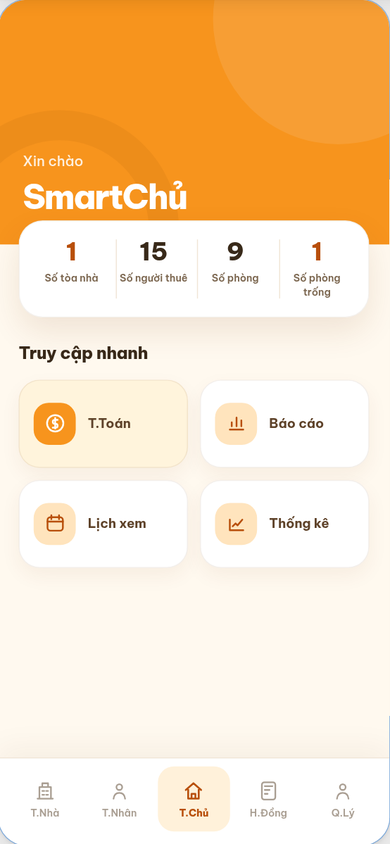
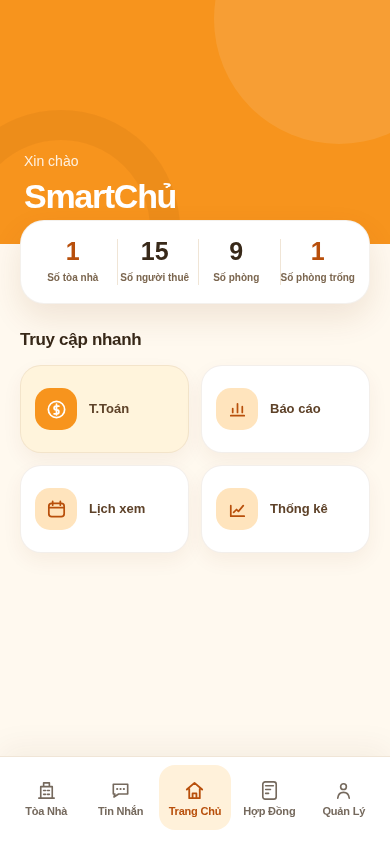
docs: finalize SmartChu footer labels

diff --git a/docs/SRS/SmartChu/use-cases/UC-04-xem-thong-tin-ca-nhan.md b/docs/SRS/SmartChu/use-cases/UC-04-xem-thong-tin-ca-nhan.md
@@ -102,13 +102,13 @@ Không có luồng ngoại lệ được xác định trong phạm vi Use Case n
 | 1 | Lời chào | Nội dung | `Xin chào` và tên sản phẩm `SmartChủ` | Không | Không | Không áp dụng | Khi có phiên hợp lệ. |
 | 2 | Tổng quan vận hành | Nhóm chỉ số | Số tòa nhà, số người thuê, số phòng và số phòng trống | Không | Không | Giá trị số từ dữ liệu hệ thống | Khi có dữ liệu tương ứng. |
 | 3 | Truy cập nhanh | Nhóm action | `T.Toán`, `Báo cáo`, `Lịch xem`, `Thống kê` | Không | Không | Destination thuộc UC tương ứng, không xác định trong UC-04 | Khi action được cung cấp cho tài khoản. |
-| 4 | Điều hướng chính | Thanh điều hướng | `T.Nhà`, `T.Nhân`, `T.Chủ`, `H.Đồng`, `Q.Lý` | Không | Không | `T.Chủ` là mục đang chọn tại Trang chủ | Khi có phiên hợp lệ. |
+| 4 | Điều hướng chính | Thanh điều hướng | `Tòa Nhà`, `Tin Nhắn`, `Trang Chủ`, `Hợp Đồng`, `Quản Lý` | Không | Không | `Trang Chủ` là mục đang chọn tại Trang chủ | Khi có phiên hợp lệ. |
 
 #### Thao tác
 
 | Thao tác | Điều kiện khả dụng | Xác nhận | Hệ thống xử lý | Kết quả/Điều hướng | Phản hồi lỗi |
 | --- | --- | --- | --- | --- | --- |
-| Chọn `Q.Lý` | Phiên hợp lệ | Không | Mở khu vực Quản lý. | Hiển thị màn hình Quản lý tại tab `Cá nhân`. | Chuyển về Đăng nhập nếu phiên không còn hợp lệ. |
+| Chọn `Quản Lý` | Phiên hợp lệ | Không | Mở khu vực Quản lý. | Hiển thị màn hình Quản lý tại tab `Cá nhân`. | Chuyển về Đăng nhập nếu phiên không còn hợp lệ. |
 
 #### Trạng thái màn hình
 
@@ -128,7 +128,7 @@ Không có luồng ngoại lệ được xác định trong phạm vi Use Case n
 | Mã màn hình | Quản lý — Cá nhân |
 | Tên màn hình | Quản lý thông tin cá nhân |
 | Mục đích | Hiển thị thông tin cá nhân và các lối điều hướng quản lý tài khoản. |
-| Điểm vào | Từ mục `Q.Lý` trên điều hướng chính. |
+| Điểm vào | Từ mục `Quản Lý` trên điều hướng chính. |
 | Điểm ra/Điều hướng | Chỉnh sửa tới UC-05; `Đổi mật khẩu` tới UC-08; `Đăng xuất` tiếp tục UC-02; `Kinh doanh` tới bề mặt thuộc UC riêng. |
 | Vai trò/Quyền | Chủ trọ đã đăng nhập; chỉ xem hồ sơ của chính mình. |
 
@@ -145,7 +145,7 @@ Không có luồng ngoại lệ được xác định trong phạm vi Use Case n
 | 7 | Email | Dữ liệu | Email đã xác minh và che một phần | Có | Không | Read-only trong phase đầu | Luôn hiển thị. |
 | 8 | Đổi mật khẩu | Action | `Đổi mật khẩu` | Không | Không | Không áp dụng | Khi có phiên hợp lệ. |
 | 9 | Đăng xuất | Action | `Đăng xuất` | Không | Không | Chỉ xử lý một lần cho mỗi thao tác | Khi có phiên hợp lệ. |
-| 10 | Điều hướng chính | Thanh điều hướng | `T.Nhà`, `T.Nhân`, `T.Chủ`, `H.Đồng`, `Q.Lý` | Không | Không | `Q.Lý` là mục đang chọn | Khi có phiên hợp lệ. |
+| 10 | Điều hướng chính | Thanh điều hướng | `Tòa Nhà`, `Tin Nhắn`, `Trang Chủ`, `Hợp Đồng`, `Quản Lý` | Không | Không | `Quản Lý` là mục đang chọn | Khi có phiên hợp lệ. |
 
 #### Thao tác
 
@@ -155,7 +155,7 @@ Không có luồng ngoại lệ được xác định trong phạm vi Use Case n
 | Chọn tab `Kinh doanh` | Phiên hợp lệ | Không | Mở bề mặt thông tin kinh doanh thuộc UC riêng. | Kết thúc UC-04 tại bề mặt future-feature của phase đầu. | Giữ tab `Cá nhân` nếu không thể điều hướng. |
 | Chọn `Đổi mật khẩu` | Phiên hợp lệ | Không | Khởi tạo UC-08. | Mở màn hình Đổi mật khẩu. | Giữ màn hình nếu không thể điều hướng. |
 | Chọn `Đăng xuất` | Phiên hợp lệ; không đang xử lý đăng xuất | Không | Tiếp tục luồng đăng xuất của UC-02. | Về Đăng nhập sau khi xóa phiên cục bộ. | UC-02 xử lý lỗi thu hồi phiên. |
-| Chọn `T.Chủ` | Phiên hợp lệ | Không | Mở Trang chủ. | Hiển thị Trang chủ. | Chuyển về Đăng nhập nếu phiên không hợp lệ. |
+| Chọn `Trang Chủ` | Phiên hợp lệ | Không | Mở Trang chủ. | Hiển thị Trang chủ. | Chuyển về Đăng nhập nếu phiên không hợp lệ. |
 
 #### Trạng thái màn hình
 

diff --git a/docs/SRS/SmartChu/use-cases/UC-02-sign-in.md b/docs/SRS/SmartChu/use-cases/UC-02-sign-in.md
@@ -192,13 +192,13 @@
 | 1 | Lời chào | Nội dung | `Xin chào` và tên sản phẩm `SmartChủ` | Không | Không | Không áp dụng | Khi có phiên hợp lệ. |
 | 2 | Tổng quan vận hành | Nhóm chỉ số | Số tòa nhà, số người thuê, số phòng và số phòng trống | Không | Không | Giá trị số từ dữ liệu hệ thống | Khi có dữ liệu tương ứng. |
 | 3 | Truy cập nhanh | Nhóm action | `T.Toán`, `Báo cáo`, `Lịch xem`, `Thống kê` | Không | Không | Destination thuộc UC tương ứng, không xác định trong UC-02 | Khi action được cung cấp cho tài khoản. |
-| 4 | Điều hướng chính | Thanh điều hướng | `T.Nhà`, `T.Nhân`, `T.Chủ`, `H.Đồng`, `Q.Lý` | Không | Không | `T.Chủ` là mục đang chọn tại Trang chủ | Khi có phiên hợp lệ. |
+| 4 | Điều hướng chính | Thanh điều hướng | `Tòa Nhà`, `Tin Nhắn`, `Trang Chủ`, `Hợp Đồng`, `Quản Lý` | Không | Không | `Trang Chủ` là mục đang chọn tại Trang chủ | Khi có phiên hợp lệ. |
 
 #### Thao tác
 
 | Thao tác | Điều kiện khả dụng | Xác nhận | Hệ thống xử lý | Kết quả/Điều hướng | Phản hồi lỗi |
 | --- | --- | --- | --- | --- | --- |
-| Chọn `Q.Lý` | Phiên hợp lệ | Không | Mở khu vực Quản lý. | Hiển thị màn hình Quản lý tại tab `Cá nhân`. | Yêu cầu đăng nhập lại nếu phiên hết hạn. |
+| Chọn `Quản Lý` | Phiên hợp lệ | Không | Mở khu vực Quản lý. | Hiển thị màn hình Quản lý tại tab `Cá nhân`. | Yêu cầu đăng nhập lại nếu phiên hết hạn. |
 
 #### Trạng thái màn hình
 
@@ -218,7 +218,7 @@
 | Mã màn hình | Quản lý |
 | Tên màn hình | Quản lý |
 | Mục đích | Cung cấp khu vực quản lý tài khoản, trong đó chủ trọ có thể kết thúc phiên hiện tại. |
-| Điểm vào | Từ Trang chủ qua mục `Q.Lý`. |
+| Điểm vào | Từ Trang chủ qua mục `Quản Lý`. |
 | Điểm ra/Điều hướng | Hoàn tất đăng xuất về màn hình Đăng nhập; các action hồ sơ khác thuộc UC tương ứng. |
 | Vai trò/Quyền | Chủ trọ đã đăng nhập. |
 
@@ -231,6 +231,7 @@
 | 3 | Thông tin tài khoản | Nhóm dữ liệu | Avatar/fallback, tên hiển thị, phone contact nếu có và email read-only | Không | Không | Theo UC-04 | Khi tab `Cá nhân` được chọn. |
 | 4 | Đổi mật khẩu | Action | `Đổi mật khẩu` | Không | Không | Thuộc UC-08 | Khi có phiên hợp lệ. |
 | 5 | Đăng xuất | Nút/Action | `Đăng xuất` | Không | Không | Chỉ xử lý một lần khi đang đăng xuất | Khi có phiên hợp lệ. |
+| 6 | Điều hướng chính | Thanh điều hướng | `Tòa Nhà`, `Tin Nhắn`, `Trang Chủ`, `Hợp Đồng`, `Quản Lý` | Không | Không | `Quản Lý` là mục đang chọn tại màn hình Quản lý | Khi có phiên hợp lệ. |
 
 #### Thao tác
 

diff --git a/docs/SRS/SmartChu/G0-decision-package.md b/docs/SRS/SmartChu/G0-decision-package.md
@@ -102,7 +102,7 @@ PO reports current `smart-platform-services` `master` hashes passwords with salt
 
 ## 2.3. D05 design/reference packet
 
-Auth reference hiện có: [`smartchu-auth-flow-canvas-2026-11-18.zip`](assets/auth/smartchu-auth-flow-canvas-2026-11-18.zip). Mapping: UC-02 dùng artboard `01`; UC-01 dùng `02–05`; UC-03 dùng `06–08`. Home/Profile reference: [`smartchu-home-profile-canvas-2026-11-20.zip`](assets/home-profile/smartchu-home-profile-canvas-2026-11-20.zip), gồm artboard `01 - Home` và `02 - Hồ sơ cá nhân`; ảnh capture đã được nhúng trong UC-02 và UC-04. ZIP là editable source, còn PNG trong screen specification là nguồn trực quan cho Dev/QA. Không đặt handoff canonical trong FRS mirror. Hai màn OTP dùng chung destination block `Mã xác thực đã được gửi tới` + email masked ở dòng riêng + `Đổi email`. Canvas chốt happy-path visual direction; loading/error/timeout/accessibility state vẫn phải được đặc tả khi mở FE gate.
+Auth reference hiện có: [`smartchu-auth-flow-canvas-2026-11-18.zip`](assets/auth/smartchu-auth-flow-canvas-2026-11-18.zip). Mapping: UC-02 dùng artboard `01`; UC-01 dùng `02–05`; UC-03 dùng `06–08`. Home/Profile reference: [`smartchu-home-profile-canvas-2026-11-20.zip`](assets/home-profile/smartchu-home-profile-canvas-2026-11-20.zip). Phương án canonical dùng artboard `03 - Home / Nhãn đầy đủ` và `04 - Hồ sơ / Nhãn đầy đủ`; artboard `01–02` chỉ được giữ để đối chiếu phương án viết tắt. Footer canonical lần lượt là `Tòa Nhà`, `Tin Nhắn`, `Trang Chủ`, `Hợp Đồng`, `Quản Lý`, dùng nhãn một dòng cỡ 11 và icon từ thư viện đã phê duyệt; riêng `Tin Nhắn` dùng glyph `message`, không triển khai bằng SVG tự vẽ. Ảnh capture canonical đã được nhúng trong UC-02 và UC-04. ZIP là editable source, còn PNG trong screen specification là nguồn trực quan cho Dev/QA. Không đặt handoff canonical trong FRS mirror. Hai màn OTP dùng chung destination block `Mã xác thực đã được gửi tới` + email masked ở dòng riêng + `Đổi email`. Canvas chốt happy-path visual direction; loading/error/timeout/accessibility state vẫn phải được đặc tả khi mở FE gate.
 
 FE foundation bắt buộc khi gate được mở: dùng `@ant-design/react-native` qua public contract `src/ui`; product screen không import vendor trực tiếp và không thêm full UI library thứ hai. Dev phải xác nhận đã hiểu visual scope, component/import boundary và BE invariant trước khi code; nếu còn ambiguity phải trả lại PM/PO để chốt, không tự diễn giải.
 
